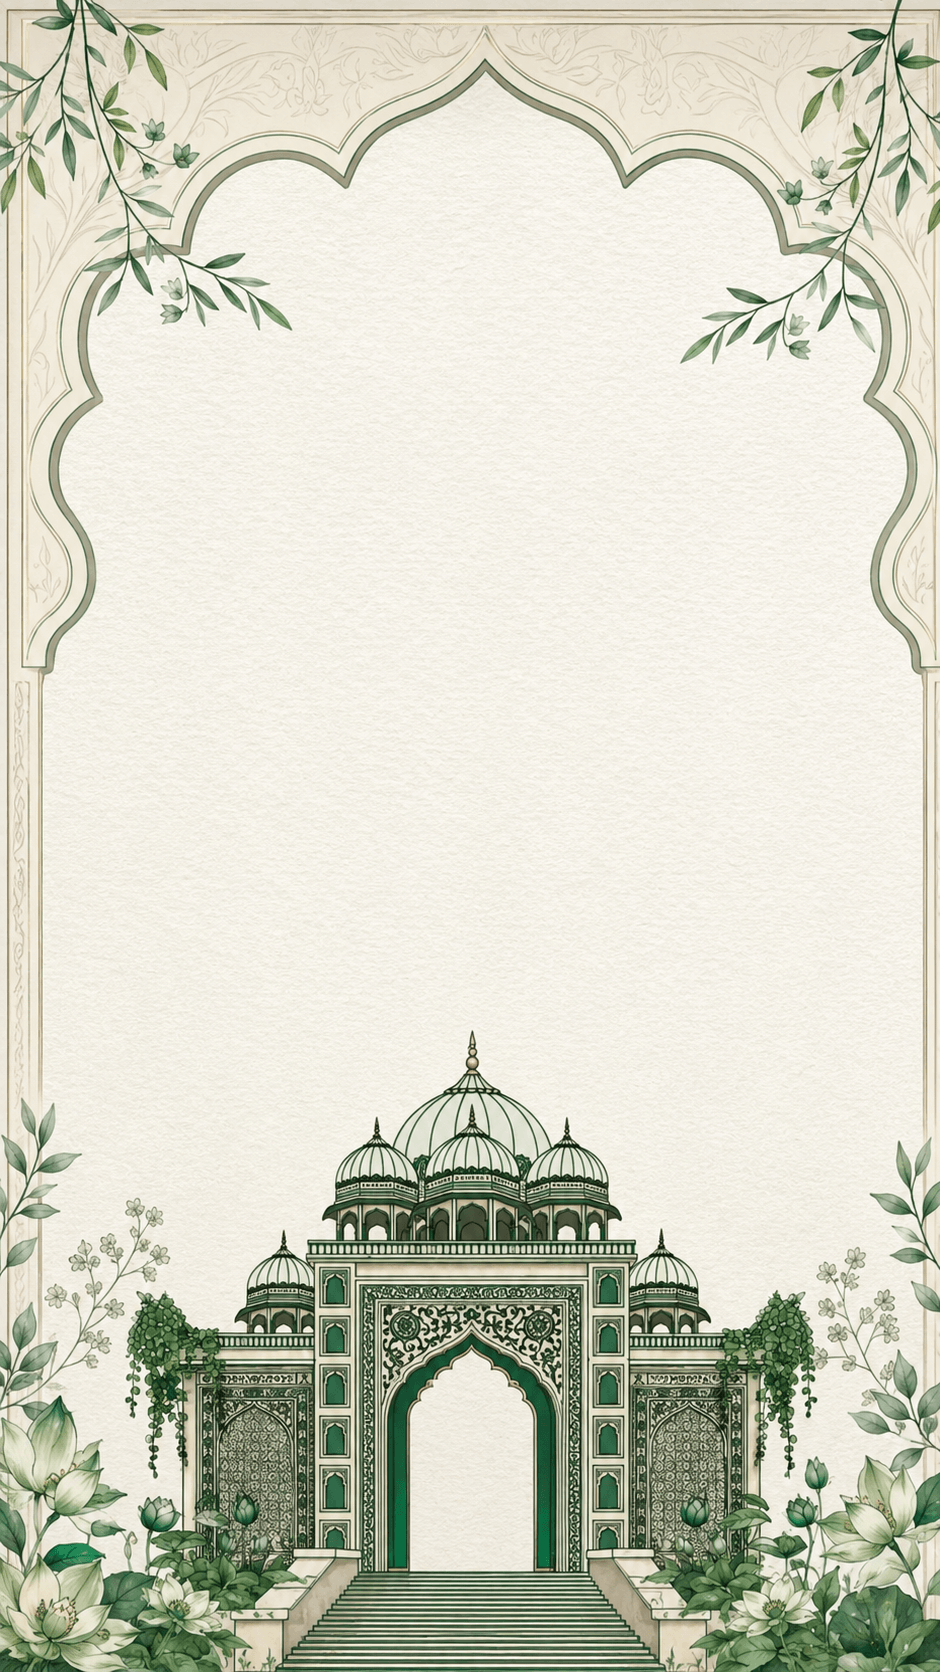
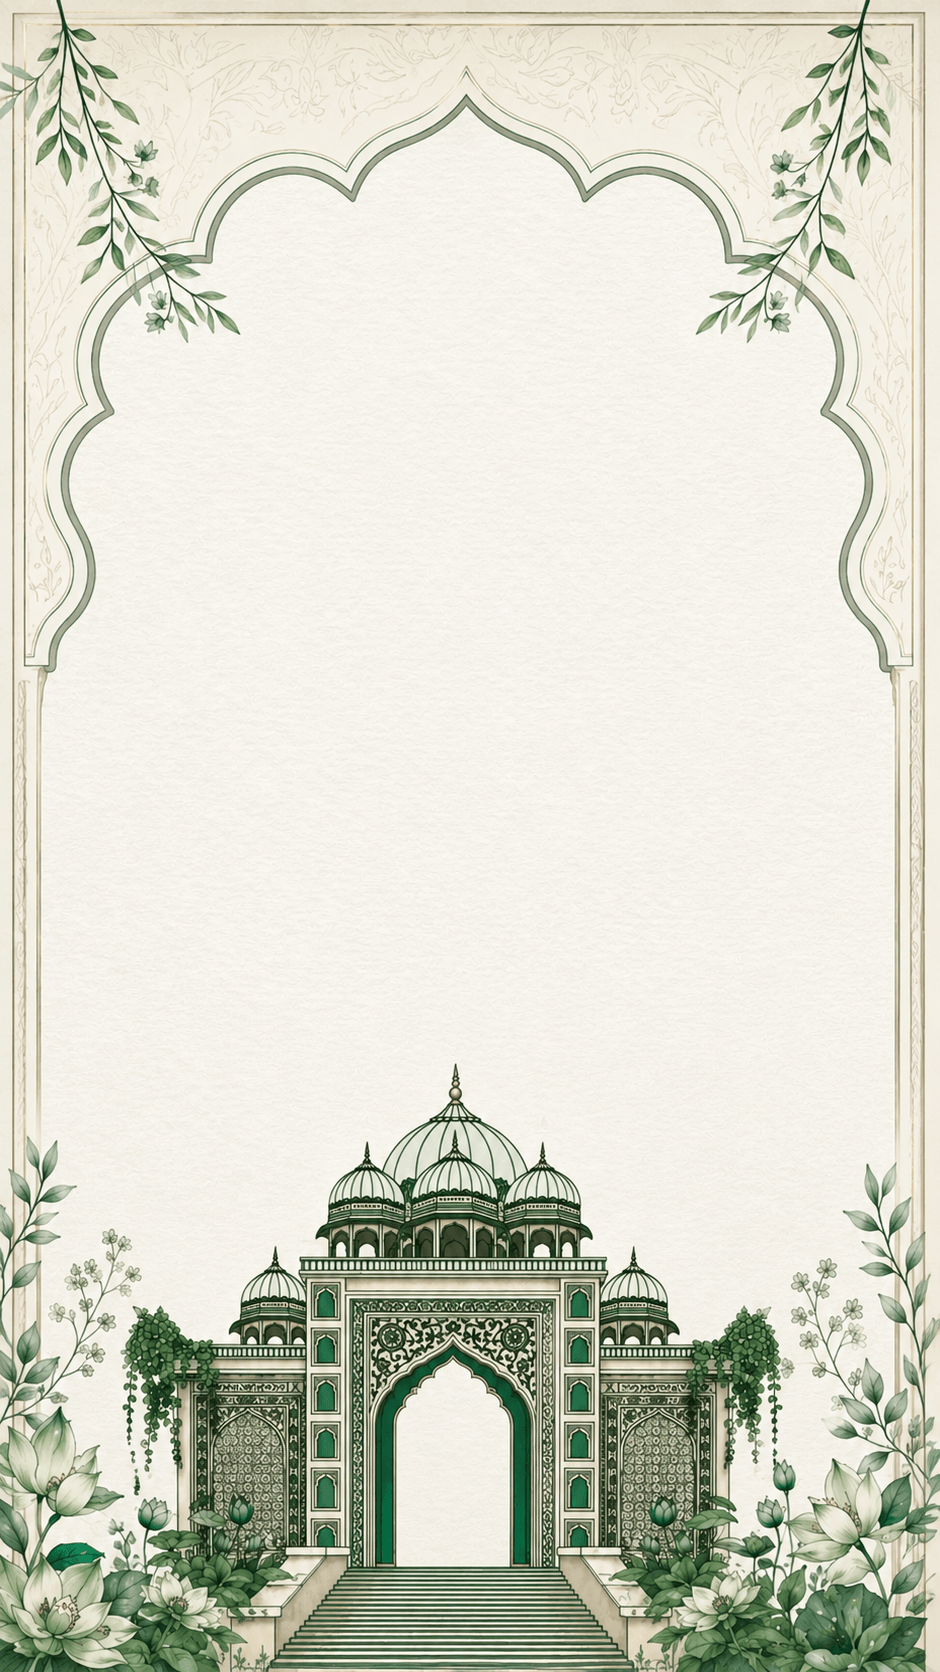
Almost done

Changed region(s): [[0.0, 0.0, 1.0, 1.0]]

diff --git a/css/style.css b/css/style.css
@@ -451,7 +451,7 @@ html, body {
 /* ---- Quran section: Centered in middle with slide transitions ---- */
 .quran-wrapper {
     position: absolute; /* Take out of flow to appear in middle */
-    top: 50%;
+    top: 40%; /* Shifted up from 50% */
     left: 50%;
     transform: translate(-50%, -50%);
     width: 90%;
@@ -540,8 +540,8 @@ html, body {
     display: flex;
     flex-direction: column;
     align-items: flex-start; /* Changed from center to align left */
-    padding-top: 117px;
-    padding-left: 55px; /* Shifted to the left with some padding */
+    padding-top: 122px;
+    padding-left: 55px; /* Original position - unchanged */
 }
 
 .henna-join {
@@ -556,31 +556,38 @@ html, body {
 .henna-title {
     font-family: 'Great Vibes', cursive;
     font-size: 3rem;
-    color: #41563D;
+    color: #A58620; /* Dark gold */
     margin-bottom: 8px;
     line-height: 1;
-    padding-left: 20px; /* Shift Holud a bit to the right */
+    padding-left: 20px; /* Original position - unchanged */
 }
 
 .henna-details {
     font-family: 'Montserrat', sans-serif;
     font-size: .75rem;
+    font-weight: 570;
     color: #000;
-    line-height: 1.2;
-    margin-bottom: 2px; /* Reduced from 30px */
+    line-height: 1.4;
+    margin-bottom: 10px; /* Gap before dress code (was two <br> tags) */
     text-align: left;
-    padding-right: 40px;
-    margin-left: -20px; /* Shift venue block a bit left */
+    padding-right: 30px;
+    margin-left: -10px; /* Small shift right */
+}
+
+.henna-venue-address {
+    font-size: .68rem;
+    padding-left: 47px; /* Align under the venue name, after the 'Venue:' label */
+    font-style: italic;
 }
 
 .henna-dress-code {
     width: 100%;
     max-width: 280px;
     text-align: left;
-    margin-top: 1px; /* Reduced from 10px */
-    margin-bottom: 0 .3px;
+    margin-top: 0; /* Reduced from 10px */
+    margin-bottom: 0 1px;
     padding-right: 20px;
-    margin-left: -20px; /* Shift dress-code block a bit left */
+    margin-left: -10px; /* Small shift right */
 }
 
 .girls-code, .boys-code {
@@ -589,7 +596,7 @@ html, body {
 
 .code-label {
     font-family: 'Montserrat', sans-serif;
-    font-size: .7rem;
+    font-size: .8rem;
     font-weight: 700;
     color: #000;
 }
@@ -603,19 +610,22 @@ html, body {
 .underline {
     text-decoration: underline;
     text-underline-offset: 4px;
+    margin-bottom: 3px;
 }
 
-.color-palate {
-    display: flex;
-    gap: 12px;
-    margin-top: 2px;
+.color-palette {
+  display: flex;
+  gap: 3px;
+  margin-top: 2px;
+  border: 3px solid #ccc; /* Width, style, and color */
 }
+
 
 .color-names-para {
-    width: 40%;
+    width: 68%;
     font-family: 'Montserrat', sans-serif;
-    font-size: 0.65rem;
-    font-weight: 400;
+    font-size: 0.7rem;
+    font-weight: 470;
     font-style: italic;
     color: #000;
     line-height: 1.3;
@@ -632,19 +642,30 @@ html, body {
     vertical-align: middle; /* Aligns circle nicely beside inline text (boys "Orange") */
 }
 
+/* Full-width wrapper pinned to the card so the pill centers on the card,
+   not on the padded content box (which is shifted right by the left padding) */
+.henna-btn-wrap {
+    position: absolute;
+    left: 0;
+    right: 0;
+    bottom: 8px; /* 15px above the bottom of the card */
+    display: flex;
+    justify-content: center;
+    z-index: 10;
+}
+
 .henna-location-btn {
     background: #fff;
-    padding: 10px 20px;
+    padding: 7px 16px;
     border-radius: 30px;
     display: flex;
     align-items: center;
     justify-content: center; /* Center content inside the button */
-    gap: 10px;
+    gap: 7px;
     text-decoration: none;
     box-shadow: 0 4px 15px rgba(0,0,0,0.1);
     z-index: 10;
     transition: transform 0.3s ease;
-    margin: auto auto 25px auto; /* Push to bottom center, keeping some distance from the bottom */
     width: fit-content; /* Ensure it wraps content */
 }
 
@@ -654,12 +675,12 @@ html, body {
 
 .btn-text {
     font-family: 'Great Vibes', cursive;
-    font-size: 1.4rem;
+    font-size: 1.2rem;
     color: #000;
 }
 
 .pin-icon {
-    font-size: 1.2rem;
+    font-size: 1rem;
 }
 
 /* ============================================================
@@ -726,16 +747,9 @@ html, body {
     font-family: 'Montserrat', sans-serif;
 }
 
-.akt-label {
-    font-size: .7rem;
-    font-weight: 500;
-    color: #000;
-    margin-right: 10px; /* Gap between "Venue:" and the name */
-}
-
 .akt-value {
     font-size: .85rem; /* Enlarged as requested */
-    font-weight: 700; /* Bolder as requested */
+    font-weight: 578; /* Bolder as requested */
     color: #000;
     text-align: left;
     line-height: 1.2;
@@ -761,20 +775,6 @@ html, body {
     transform: translateX(-50%);
 }
 
-.akt-location-btn:hover {
-    transform: scale(1.05);
-}
-
-.akt-location-btn .btn-text {
-    font-family: 'Great Vibes', cursive;
-    font-size: 1.5rem;
-    color: #3e2723;
-}
-
-.akt-location-btn .pin-icon {
-    font-size: 1.2rem;
-}
-
 /* ============================================================
    [CUSTOMISE] CARD 3: THE WEDDING
    ============================================================ */
@@ -790,7 +790,7 @@ html, body {
     flex-direction: column;
     align-items: center;
     justify-content: flex-start; /* Push everything to the top */
-    padding: 120px 20px 0 20px; /* Top space via padding (was 5x </br>) */
+    padding: 135px 20px 0 20px; /* Top space via padding (was 5x </br>) */
     z-index: 3;
 }
 
@@ -804,15 +804,15 @@ html, body {
     font-family: 'Montserrat', sans-serif;
     font-size: 0.7rem;
     color: #000;
-    margin-bottom: 5px;
+    margin-bottom: 3px;
     font-weight: 1;
 }
 
 .wedding-title-main {
     font-family: 'Great Vibes', cursive !important;
-    font-size: 2.5rem !important;
+    font-size: 2.3rem !important;
     color: #000;
-    margin: 0 0 5px 0 !important;
+    margin: 0 0 3px 0 !important;
     text-align: center;
     font-weight: 500
 }
@@ -871,7 +871,7 @@ html, body {
     text-align: center;
     font-weight: 400;
     padding: 0 5px;
-    margin-top: 4;
+    margin-top: 10px;
     margin-top: 4;
     margin-bottom: 2px;
 }
@@ -985,7 +985,7 @@ html, body {
    ============================================================ */
 .blessings-text {
     position: absolute;
-    bottom: 15px;
+    bottom: 3px;
     left: 0;
     width: 100%;
     text-align: center;

diff --git a/index.html b/index.html
@@ -78,8 +78,9 @@
 
                 <div class="henna-details fade-text delay-3">
                     <div><strong>Venue:</strong> Bagan Bari (Isahoque Haji)</div>
-                    <div><strong>Date:</strong>4<sup>th</sup> September,2026</div>
-                    <div><strong>Time:</strong> 7pm</br></br></div>
+                    <div class="henna-venue-address">Haji Neyamot Ali Road, Hatazari</div>
+                    <div><strong>Date:</strong> 4<sup>th</sup> September, 2026</div>
+                    <div><strong>Time:</strong> 7pm</div>
                 </div>
 
                 <div class="henna-dress-code fade-text delay-4">
@@ -87,7 +88,7 @@
                         <div class="code-label underline">Dress code: Girls </div>
                         <em>Lehenga/ saree</em>
 
-                        <div class="color-names-para">Golden Yellow/ Rasberry/ Mustard Yellow/ Terracotta/ Rose pink</div>
+                        <div class="color-names-para">&nbsp;&nbsp;&nbsp;&nbsp;Golden Yellow/ Rasberry/ &nbsp;&nbsp;&nbsp;&nbsp;Mustard Yellow/ Terracotta/ &nbsp;&nbsp;&nbsp;&nbsp;Rose pink</div>
                         <div class="color-palate">
                             <span class="circle" style="background: #FFD700;"></span>
                             <span class="circle" style="background: #D21F5A;"></span>
@@ -99,13 +100,16 @@
 
                     <div class="boys-code">
                         <div class="code-label underline"><br>Dress Code: Boys</div>
-                        <div class><em>Panjabi&nbsp;&nbsp;&nbsp;&nbsp;Orange</em> <span class="circle" style="background: #FF8C00;"></span></div>
+                        <div class><em>Panjabi</em></div>
+                        <div class="color-names-para">&nbsp;&nbsp;&nbsp;&nbsp;Orange &nbsp;&nbsp;&nbsp;&nbsp;<span class="circle" style="background: #FF8C00;"></span></div>
                     </div>
                 </div>
 
-                <a href="https://maps.app.goo.gl/85zZKgiNZLif3Pg5A" target="_blank" class="henna-location-btn fade-text delay-5">
-                    <span class="pin-icon">📍</span> <span class="btn-text">Bagan bari location</span>
-                </a>
+                <div class="henna-btn-wrap">
+                    <a href="https://maps.app.goo.gl/J93TdScdxwhxtAHRA" target="_blank" class="henna-location-btn fade-text delay-5">
+                        <span class="pin-icon">📍</span> <span class="btn-text">Bagan bari Location</span>
+                    </a>
+                </div>
             </div>
         </div>
 
@@ -118,15 +122,15 @@
                 <div class="akt-details-group fade-text delay-3">
                     <div class="akt-info-row">
                         <span class="akt-label"></br>Venue:</span>
-                        <span class="akt-value"></br>Railway Masjid, CRB</span>
+                        <span class="akt-value"></br>&nbsp;Railway Masjid, CRB</span>
                     </div>
                     <div class="akt-info-row">
                         <span class="akt-label">Date:</span>
-                        <span class="akt-value">5<sup>th</sup> September, 2026</span>
+                        <span class="akt-value">&nbsp;5<sup>th</sup> September, 2026</span>
                     </div>
                     <div class="akt-info-row">
                         <span class="akt-label">Time:</span>
-                        <span class="akt-value">Baad Asr Namaz</span>
+                        <span class="akt-value">&nbsp;Baad Asr Namaz</span>
                     </div>
                 </div>
             </div>
@@ -136,7 +140,7 @@
         <div class="card card-wedding" id="slide-3">
             <div class="wedding-content">
 
-                <div class="wedding-invite-text fade-text delay-1">We Joyfully invite You To the </div>
+                <div class="wedding-invite-text fade-text delay-1"></br>We Joyfully invite You To the </div>
                 <div class="wedding-title-main fade-text delay-2">Wedding Ceremony</div>
 
                 <div class="wedding-date-row fade-text delay-3">
